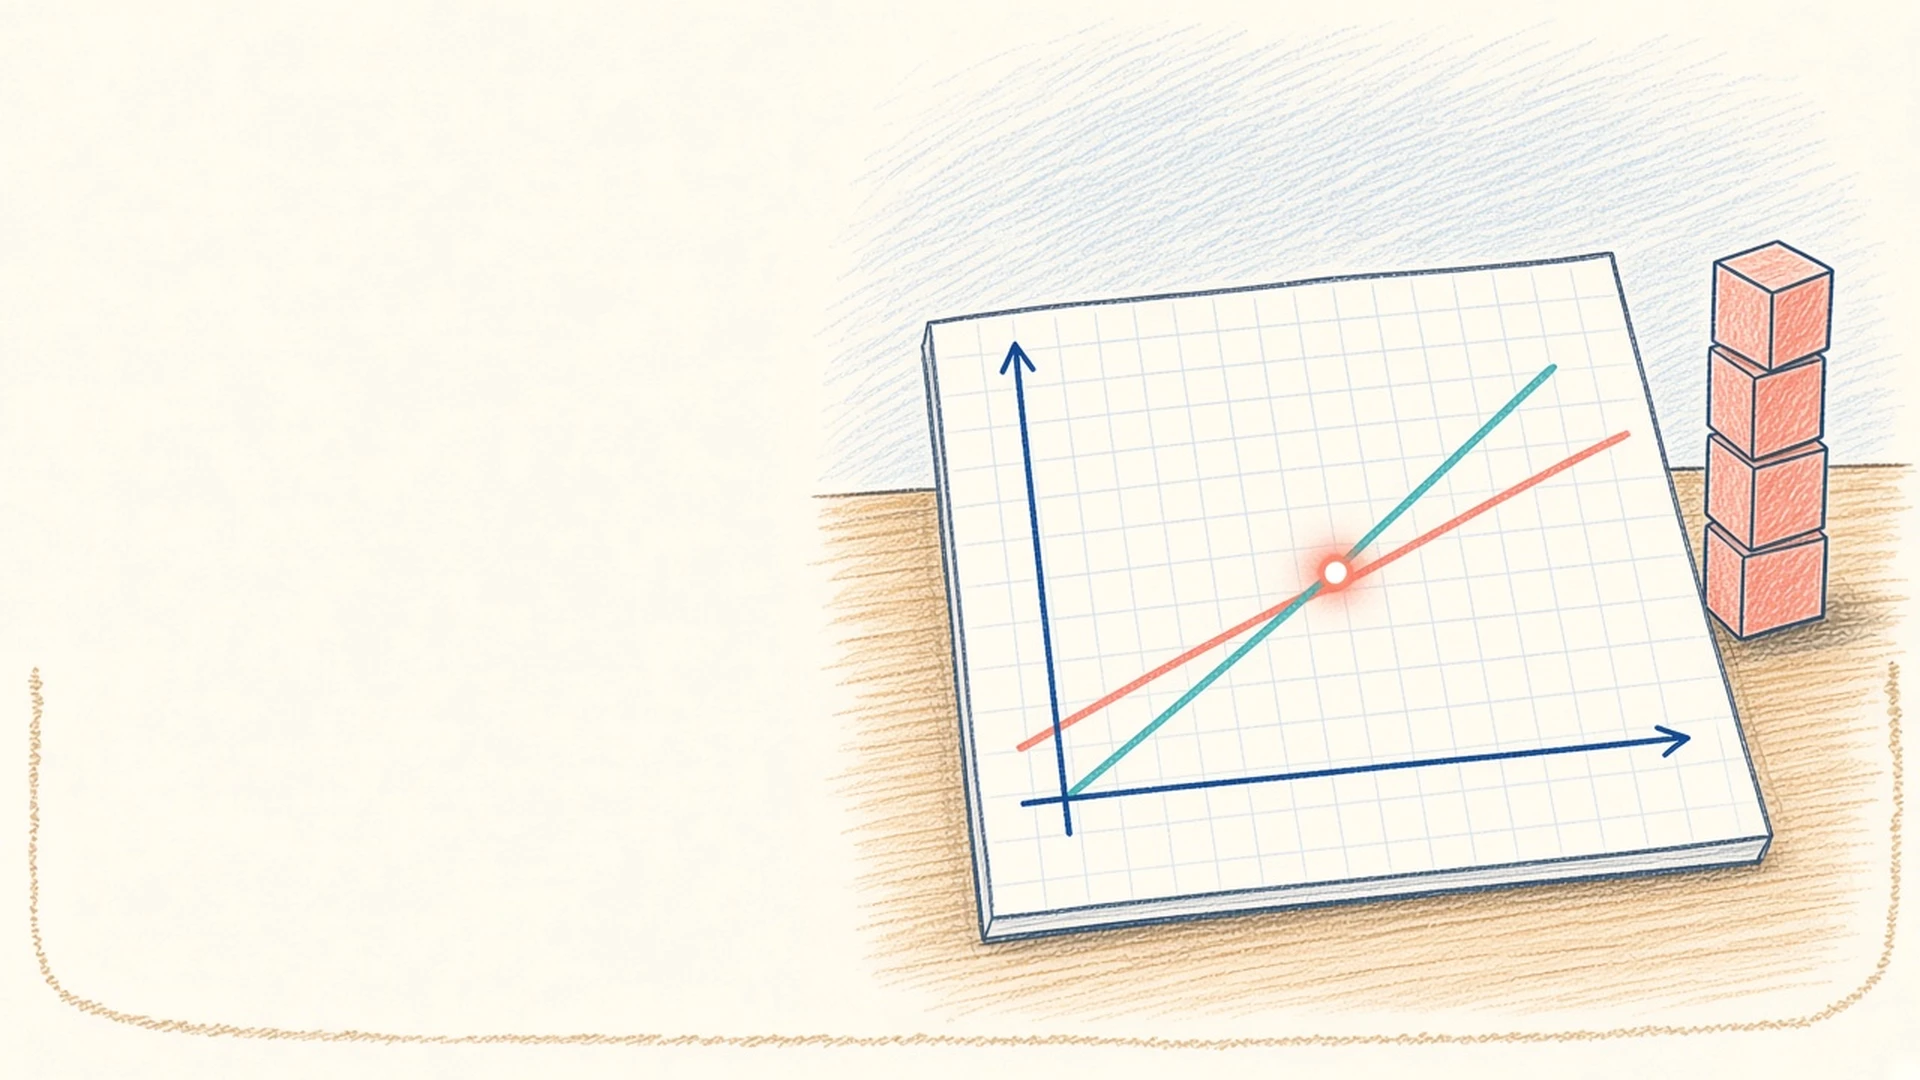
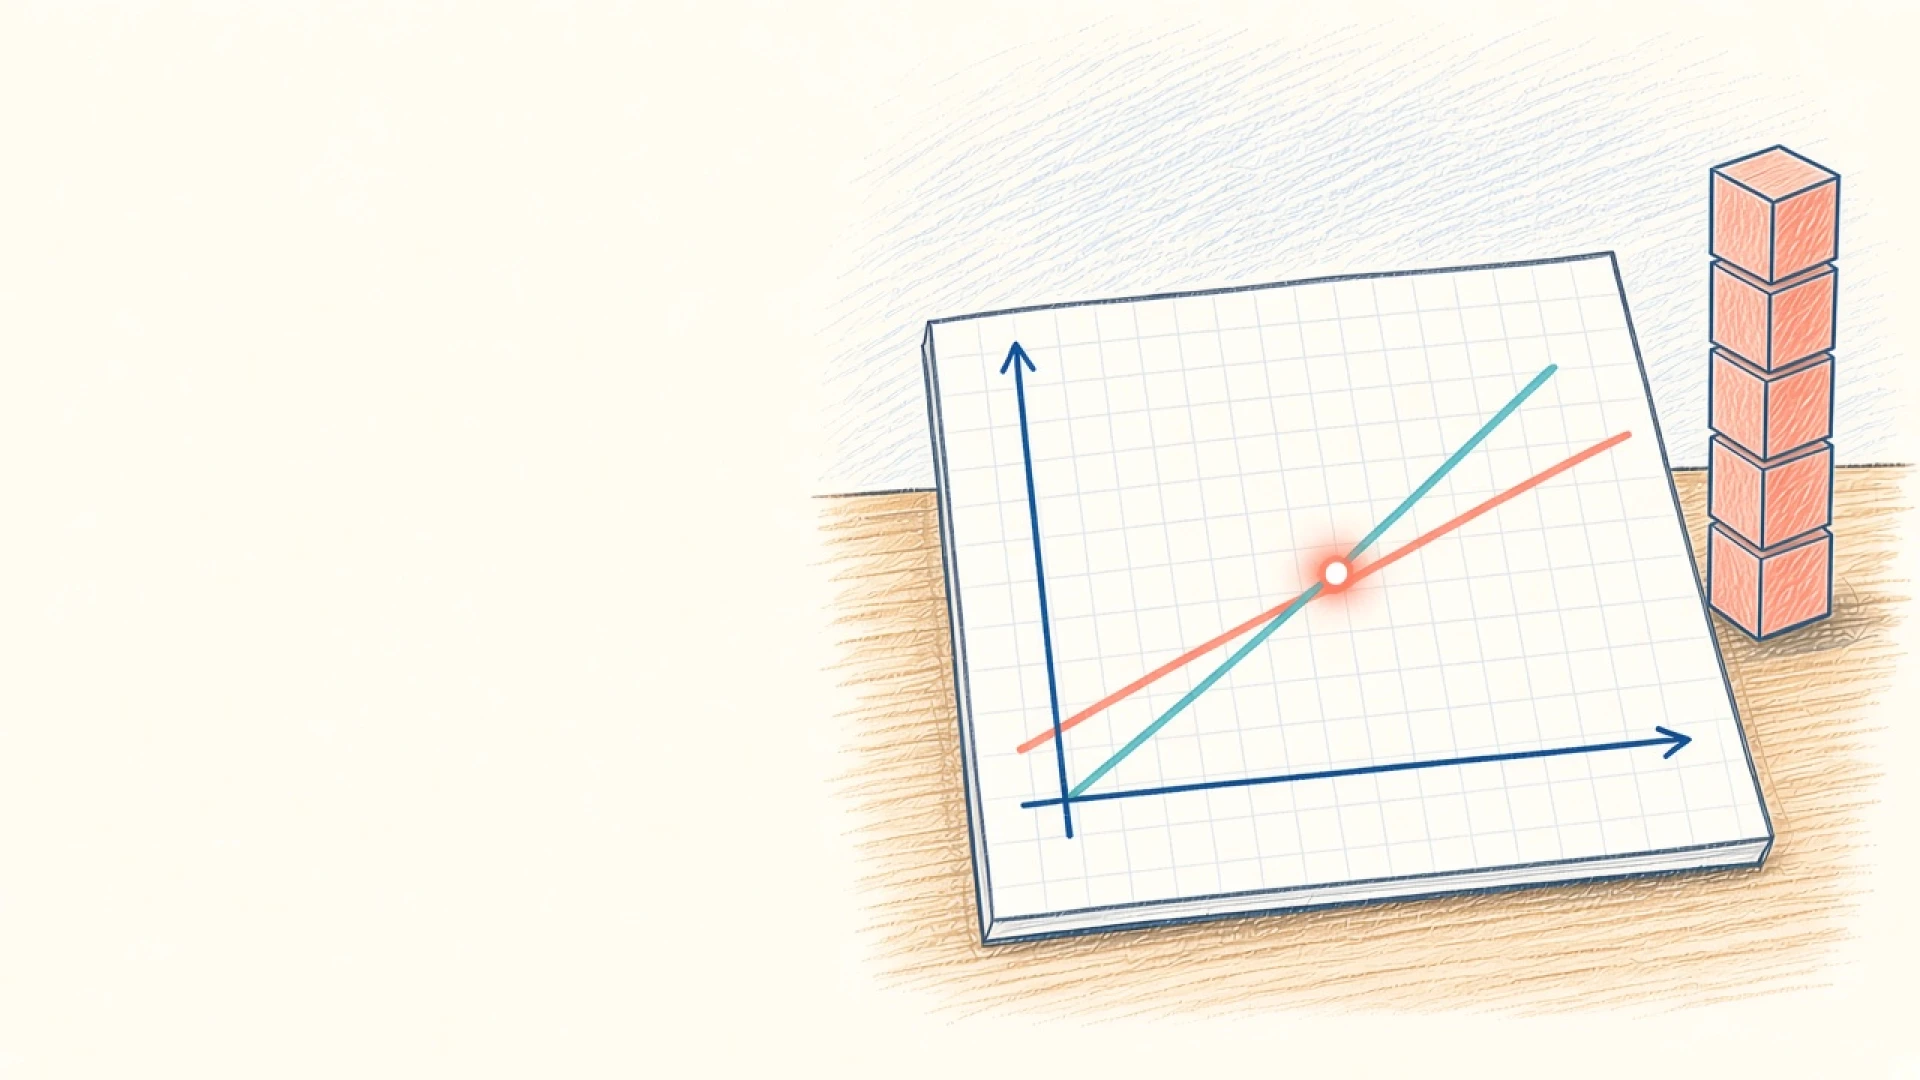
s10: wire Leo 5-block bg_v5, faces.json BIRAC, DOM graph labels
Use bg_v5 + v5 draw-in masks as module webp (leave art/s10/bg.png as
fallback). Render B/I/R/A/C centered in faces.json rects with
BIRAC_HAS_FIFTH_BLOCK. Add handwriting Revenue/Cost/Break-even labels
beside sampled teal tip, coral line, and glow (multiply ink/graphite).

diff --git a/public/diy-pbl-bookshare/bs-pages.js b/public/diy-pbl-bookshare/bs-pages.js
@@ -270,48 +270,53 @@ function buildS09(root, T) {
 
 function buildS10(root, T) {
   const p = P("s10");
-  // No breakeven_glow sprite: it sat above the intersection as a stray orange dot;
-  // the break-even glow is already baked into bg.webp. (DOM, not Leo.)
-  // No birac_block sprite: current Leo bg draws a 4-block stack (5th not in art yet).
+  // No breakeven_glow / birac_block sprites: glow + 5-block stack are baked into bg_v5.
+  // Graph labels are NOT in the art (faces.json graph_labels: []) - DOM only, once.
 
-  // Graph labels: sit ON the drawn lines near their tips / glow (art coords).
+  // Sampled from bg_v5: teal tip ~(1557,369), glow ~(1287,599), coral below-right.
   const labels = [
-    { cls: "s10-lab-rev", text: "Revenue", x: 1510, y: 300 },
-    { cls: "s10-lab-cost", text: "Cost", x: 1365, y: 595 },
-    { cls: "s10-lab-be", text: "Break-even", x: 1240, y: 455 },
+    { cls: "s10-lab-rev", text: "Revenue", x: 1580, y: 348 },      // beside teal tip
+    { cls: "s10-lab-cost", text: "Cost", x: 1470, y: 575 },         // below coral, right of cross
+    { cls: "s10-lab-be", text: "Break-even", x: 1235, y: 555 },     // above-left of glow
   ];
   labels.forEach((L) => {
     const el = surface("label", `${L.cls} on-art`);
     el.textContent = L.text;
     el.style.left = (L.x / 1920) * 100 + "%";
     el.style.top = (L.y / 1080) * 100 + "%";
-    el.style.transform = "rotate(-8deg)";
+    el.style.transform = "rotate(-6deg)";
     root.appendChild(el);
   });
 
-  // Leo s10 bg is still a 4-block stack (faces.json lists 5, but art has 4).
-  // Hide stray C under the stack; B/I/R/A on the four front faces.
-  const BIRAC_HAS_FIFTH_BLOCK = false;
+  // Letter rects from art/s10/faces.json (v5). Center each letter in its face.
+  const BIRAC_HAS_FIFTH_BLOCK = true;
   const biracFaces = [
-    { ch: "B", x: 1764, y: 327 },
-    { ch: "I", x: 1761, y: 396 },
-    { ch: "R", x: 1726, y: 504 },
-    { ch: "A", x: 1756, y: 593 },
+    { ch: "B", x: 1726, y: 206, w: 48, h: 52 },
+    { ch: "I", x: 1724, y: 294, w: 48, h: 54 },
+    { ch: "R", x: 1727, y: 384, w: 48, h: 52 },
+    { ch: "A", x: 1722, y: 472, w: 48, h: 52 },
+    { ch: "C", x: 1721, y: 560, w: 48, h: 53 },
   ];
-  if (BIRAC_HAS_FIFTH_BLOCK) {
-    biracFaces.push({ ch: "C", x: 1744, y: 702 });
+  if (!BIRAC_HAS_FIFTH_BLOCK) {
+    // 4-block fallback: drop C
+    biracFaces.pop();
   }
-  // When 4-block: do not render a visible C (hides the stray letter under the stack).
   biracFaces.forEach((L) => {
     const el = surface("label", "s10-birac-letter");
     el.textContent = L.ch;
-    el.style.left = (L.x / 1920) * 100 + "%";
-    el.style.top = (L.y / 1080) * 100 + "%";
-    el.style.transform = "translate(-50%, -50%) rotate(-2deg)";
-    el.style.fontSize = "clamp(22px, 2.6cqw, 39px)";
+    // Center of face rect (xywh art coords)
+    const cx = L.x + L.w / 2;
+    const cy = L.y + L.h / 2;
+    el.style.left = (cx / 1920) * 100 + "%";
+    el.style.top = (cy / 1080) * 100 + "%";
+    el.style.transform = "translate(-50%, -50%)";
+    // Fit fully inside ~48x52 face with a little padding
+    el.style.fontSize = "clamp(15px, 1.7cqw, 26px)";
     el.style.fontWeight = "700";
+    el.style.lineHeight = "1";
     el.style.color = "#26376e";
     el.style.mixBlendMode = "normal";
+    el.dataset.face = `${L.x},${L.y},${L.w},${L.h}`;
     root.appendChild(el);
   });
 

diff --git a/public/diy-pbl-bookshare/bs.css b/public/diy-pbl-bookshare/bs.css
@@ -1117,15 +1117,16 @@ body[data-kind="conclude"] .bs-paper-group {
   font-family: "Cabin Sketch", "Architects Daughter", cursive !important;
   color: #26376e !important;
   font-weight: 700 !important;
-  font-size: clamp(22px, 2.6cqw, 39px) !important; /* ~1.4x original */
+  /* Fit fully inside v5 face rects (~48x52 art px) */
+  font-size: clamp(15px, 1.7cqw, 26px) !important;
   line-height: 1 !important;
   background: none !important;
   box-shadow: none !important;
   text-shadow: none !important;
   border: none !important;
   padding: 0 !important;
-  mix-blend-mode: normal !important; /* no multiply washout on coral blocks */
-  -webkit-text-stroke: 0.55px #26376e;
+  mix-blend-mode: normal !important;
+  -webkit-text-stroke: 0.35px #26376e;
   opacity: 1 !important;
   z-index: 8 !important;
 }
@@ -1399,4 +1400,29 @@ body.fl-full .bs-paper-group .bs-apa li {
   body.fl-full .bs-paper-group .bs-resources-panel .bs-apa {
     row-gap: 0.15em !important;
   }
+}
+
+
+/* s10 graph labels: DOM handwriting on bg_v5 (no baked labels). Ink/graphite + multiply. */
+.bs-scene[data-art="s10"] .s10-lab-rev,
+.bs-scene[data-art="s10"] .s10-lab-cost,
+.bs-scene[data-art="s10"] .s10-lab-be {
+  font-family: "Patrick Hand", "Architects Daughter", cursive !important;
+  font-weight: 600 !important;
+  font-size: clamp(14px, 1.55cqw, 26px) !important;
+  line-height: 1.05 !important;
+  mix-blend-mode: multiply !important;
+  background: none !important;
+  box-shadow: none !important;
+  border: none !important;
+  white-space: nowrap;
+  pointer-events: none;
+}
+.bs-scene[data-art="s10"] .s10-lab-rev { color: #26376e !important; }
+.bs-scene[data-art="s10"] .s10-lab-be { color: #26376e !important; }
+.bs-scene[data-art="s10"] .s10-lab-cost { color: #3b3530 !important; }
+.bs-scene[data-art="s10"] .s10-birac-letter {
+  font-family: "Cabin Sketch", "Patrick Hand", cursive !important;
+  color: #26376e !important;
+  mix-blend-mode: normal !important;
 }
